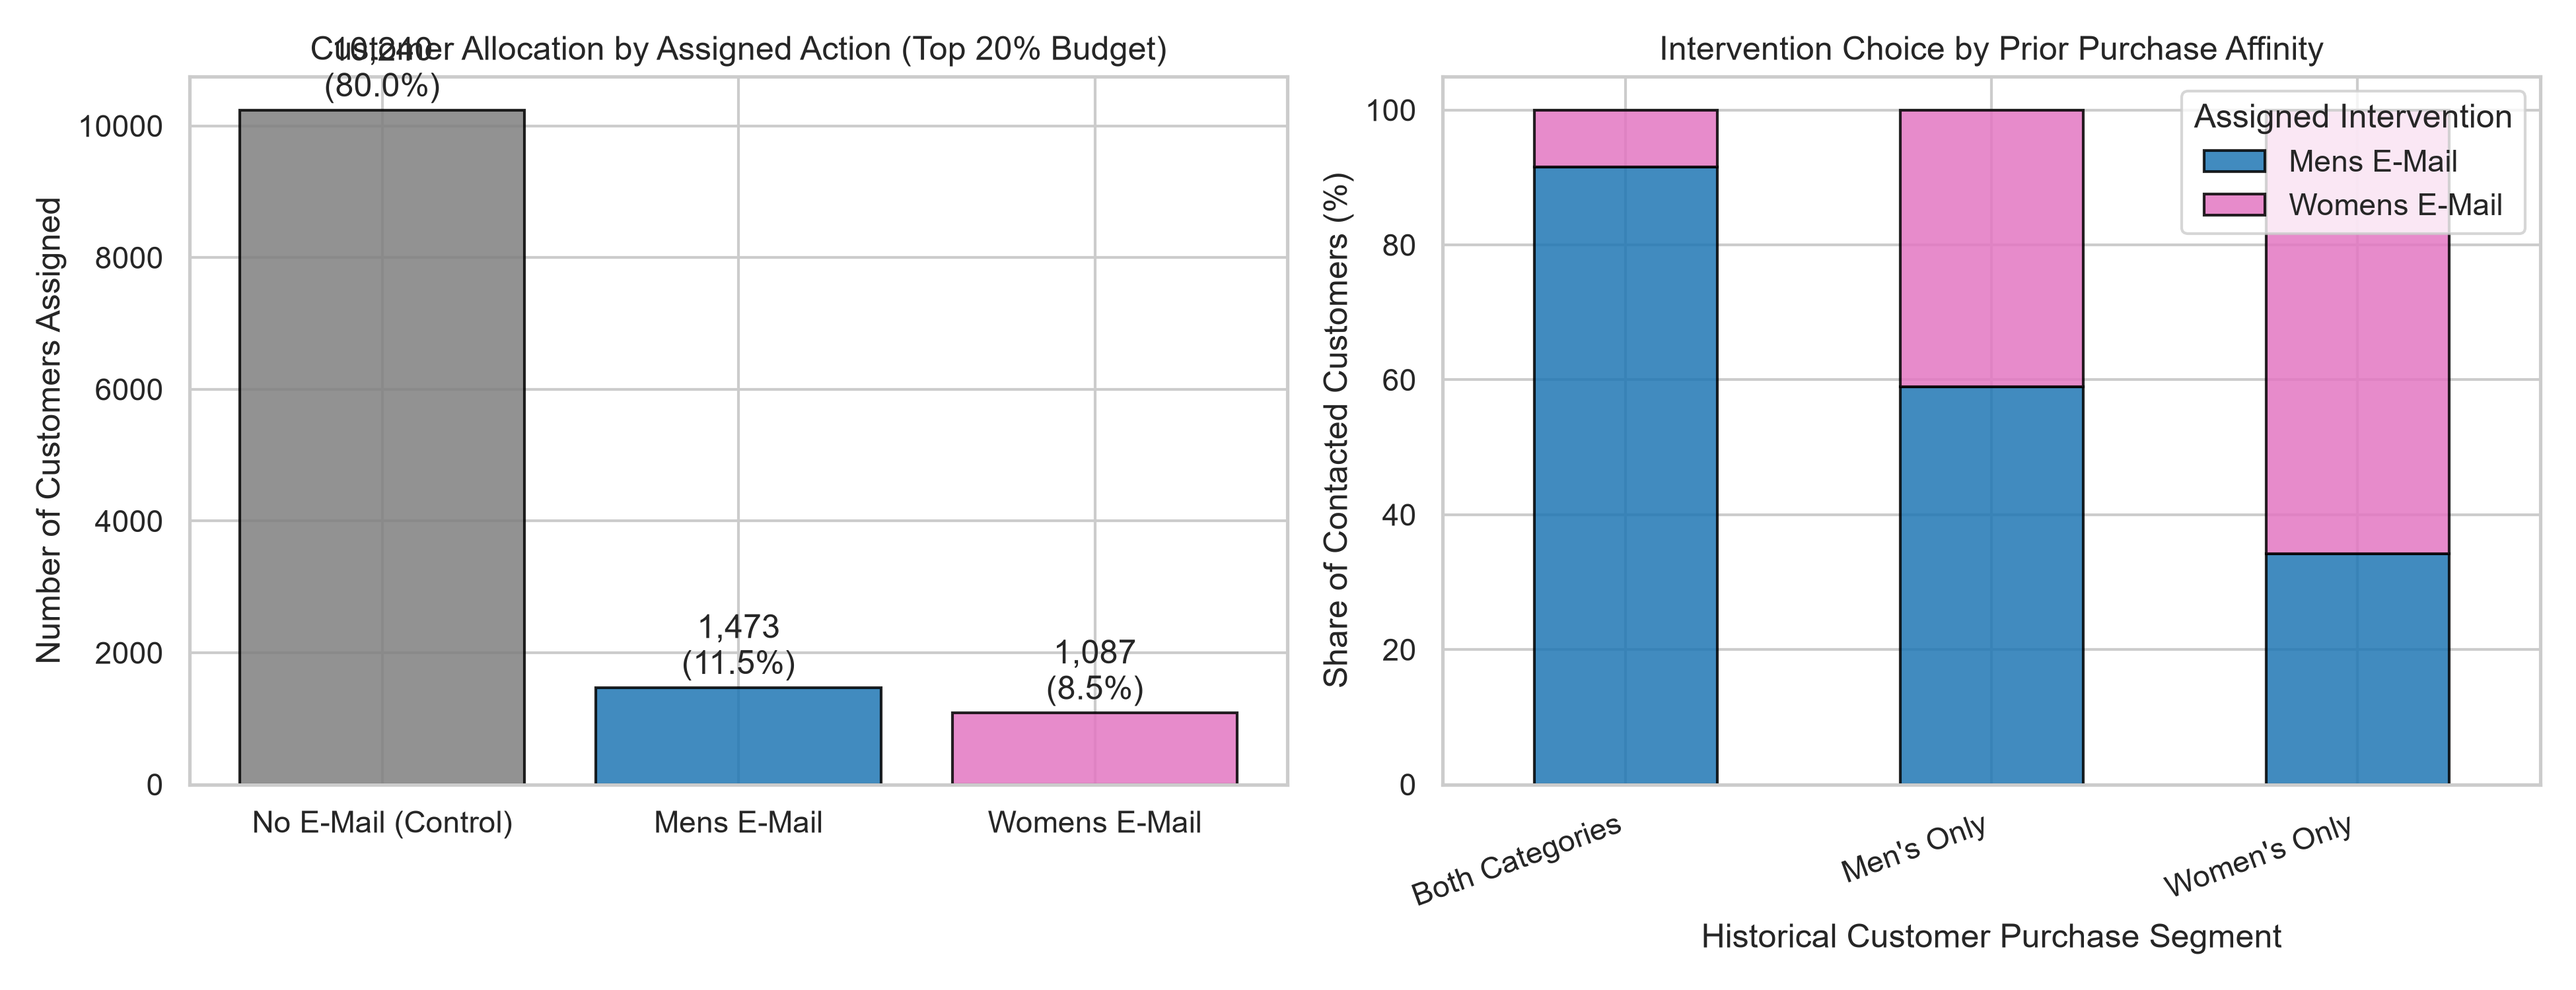
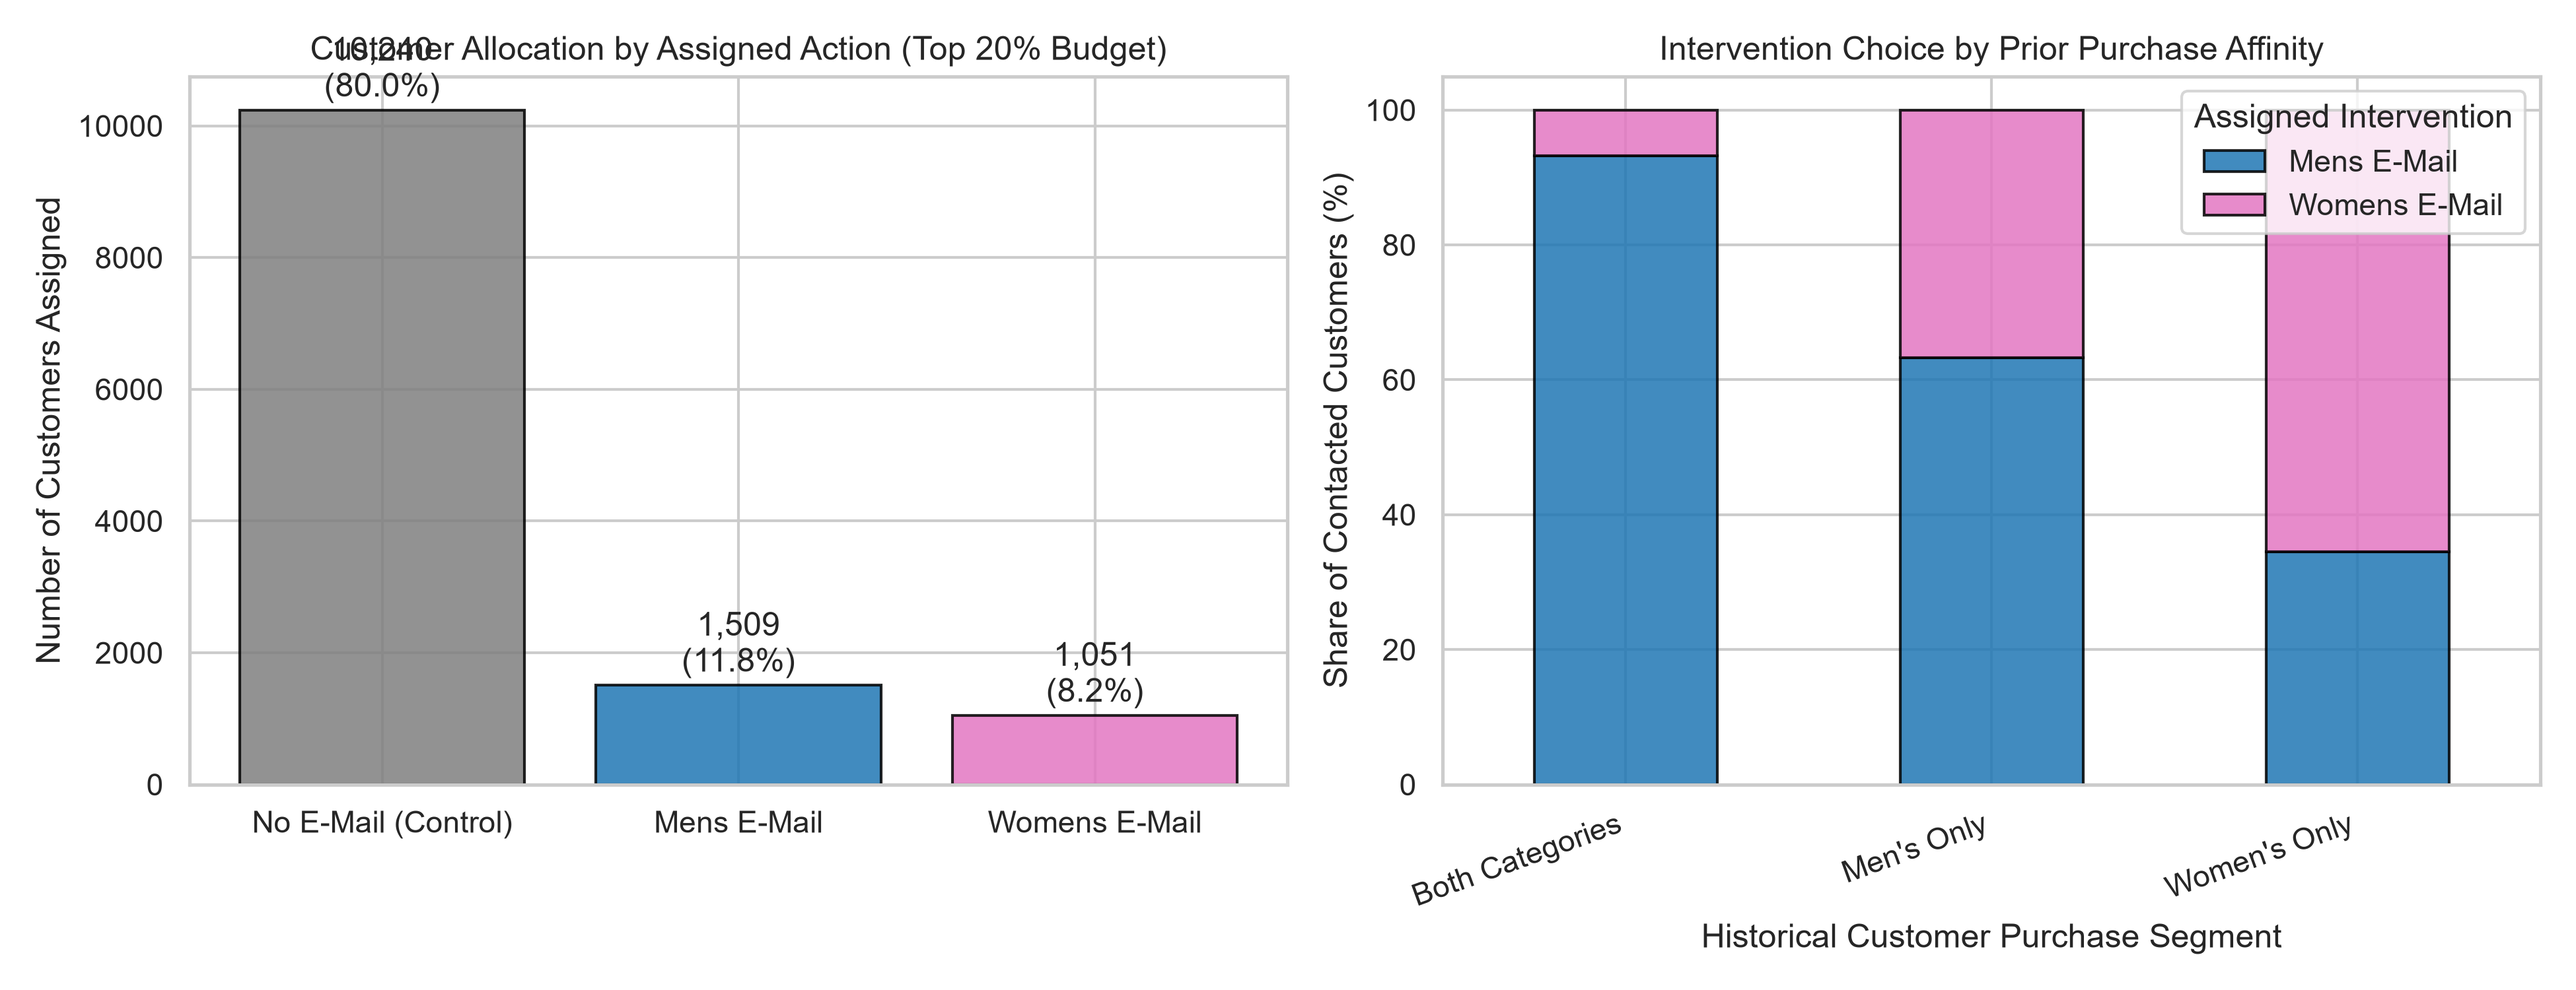
results: add 14M Criteo benchmark figures and tables from RTX 4090

diff --git a/outputs/tables/table7_multiarm_personalization.md b/outputs/tables/table7_multiarm_personalization.md
@@ -3,11 +3,11 @@
 |    | Policy                                | Targeted (%)   | Mens (%)   | Womens (%)   |   Gross Spend ($) |   Mean Cost ($) |   Net Policy Value ($) |
 |----|---------------------------------------|----------------|------------|--------------|-------------------|-----------------|------------------------|
 |  0 | Baseline (No Contact)                 | 0.0%           | 0.0%       | 0.0%         |            0.5661 |          0.0000 |                 0.2831 |
-|  1 | Uniform Mens E-Mail (Global Best)     | 20.0%          | 20.0%      | 0.0%         |            0.8787 |          0.0500 |                 0.3893 |
-|  2 | Uniform Womens E-Mail                 | 20.0%          | 0.0%       | 20.0%        |            0.7369 |          0.0500 |                 0.3185 |
-|  3 | Personalized Causal Policy (Proposed) | 20.0%          | 11.5%      | 8.5%         |            0.6802 |          0.0500 |                 0.2901 |
+|  1 | Uniform Mens E-Mail (Global Best)     | 20.0%          | 20.0%      | 0.0%         |            0.8150 |          0.0500 |                 0.3575 |
+|  2 | Uniform Womens E-Mail                 | 20.0%          | 0.0%       | 20.0%        |            0.7252 |          0.0500 |                 0.3126 |
+|  3 | Personalized Causal Policy (Proposed) | 20.0%          | 11.8%      | 8.2%         |            0.6230 |          0.0500 |                 0.2615 |
 
 **Hypothesis H7 Test (Personalized vs Uniform Mens)**:
-- Point Estimate Difference: $-0.0992
-- 95% Bootstrap CI: [$-0.2563, $+0.0565]
-- Empirical p-value: 0.2320
+- Point Estimate Difference: $-0.0960
+- 95% Bootstrap CI: [$-0.2886, $+0.0635]
+- Empirical p-value: 0.2720

diff --git a/outputs/tables/table11_criteo_replication.md b/outputs/tables/table11_criteo_replication.md
@@ -1,0 +1,10 @@
+### Table 11: Large-Scale External Replication (Criteo Uplift Benchmark)
+
+| Dataset       | Mode       | Model              |   Qini Score |
+|---------------|------------|--------------------|--------------|
+| Criteo Uplift | Full (14M) | Response (XGBoost) |    1492.6942 |
+| Criteo Uplift | Full (14M) | T-Learner Uplift   |    1371.5414 |
+
+- **Spearman Rank Correlation**: rho = 0.8044 (p = 0.00e+00)
+- **Top-10% Cohort Overlap**: 85.2%
+- **Total Rows Evaluated**: 13,979,592
